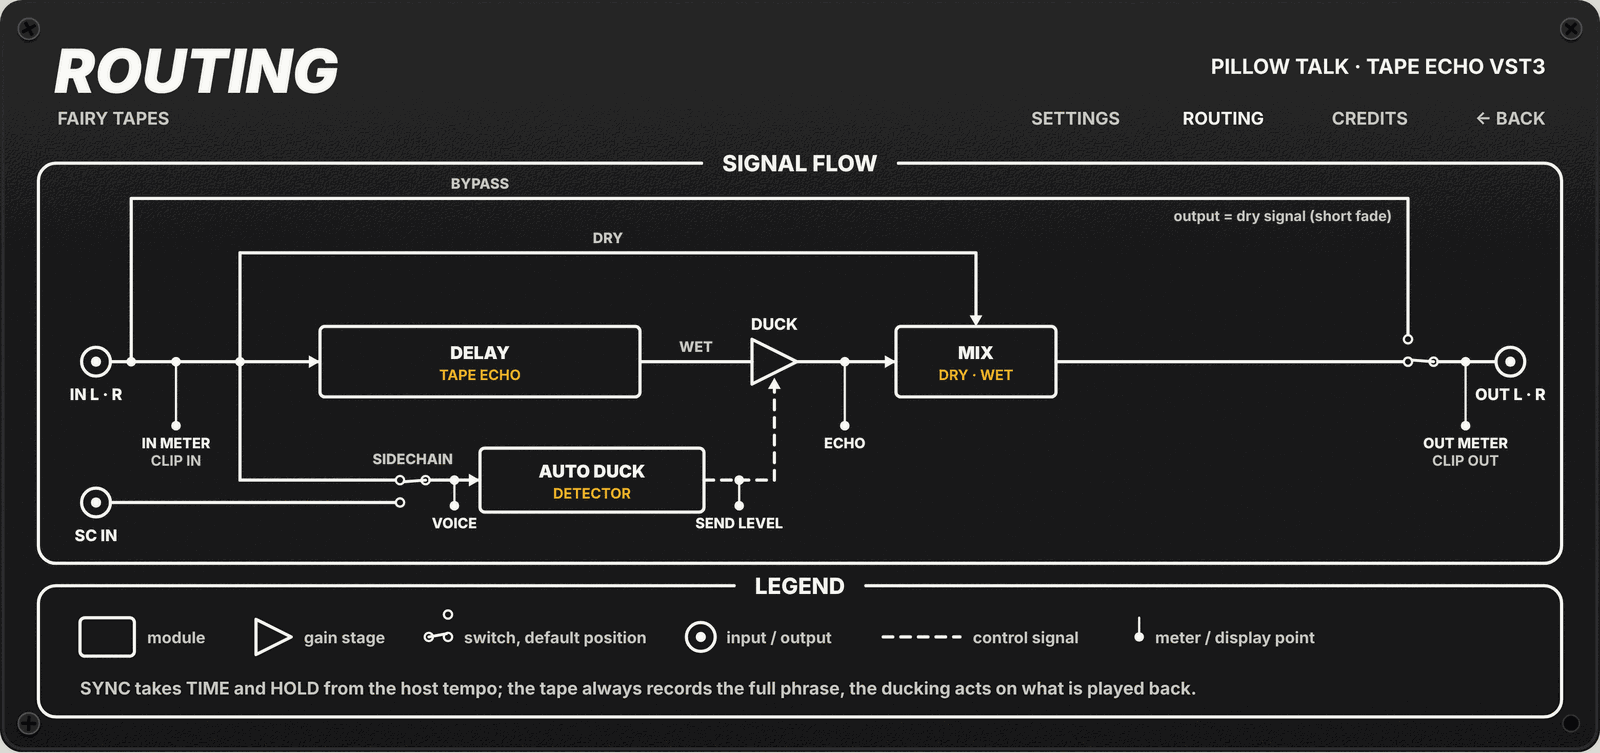
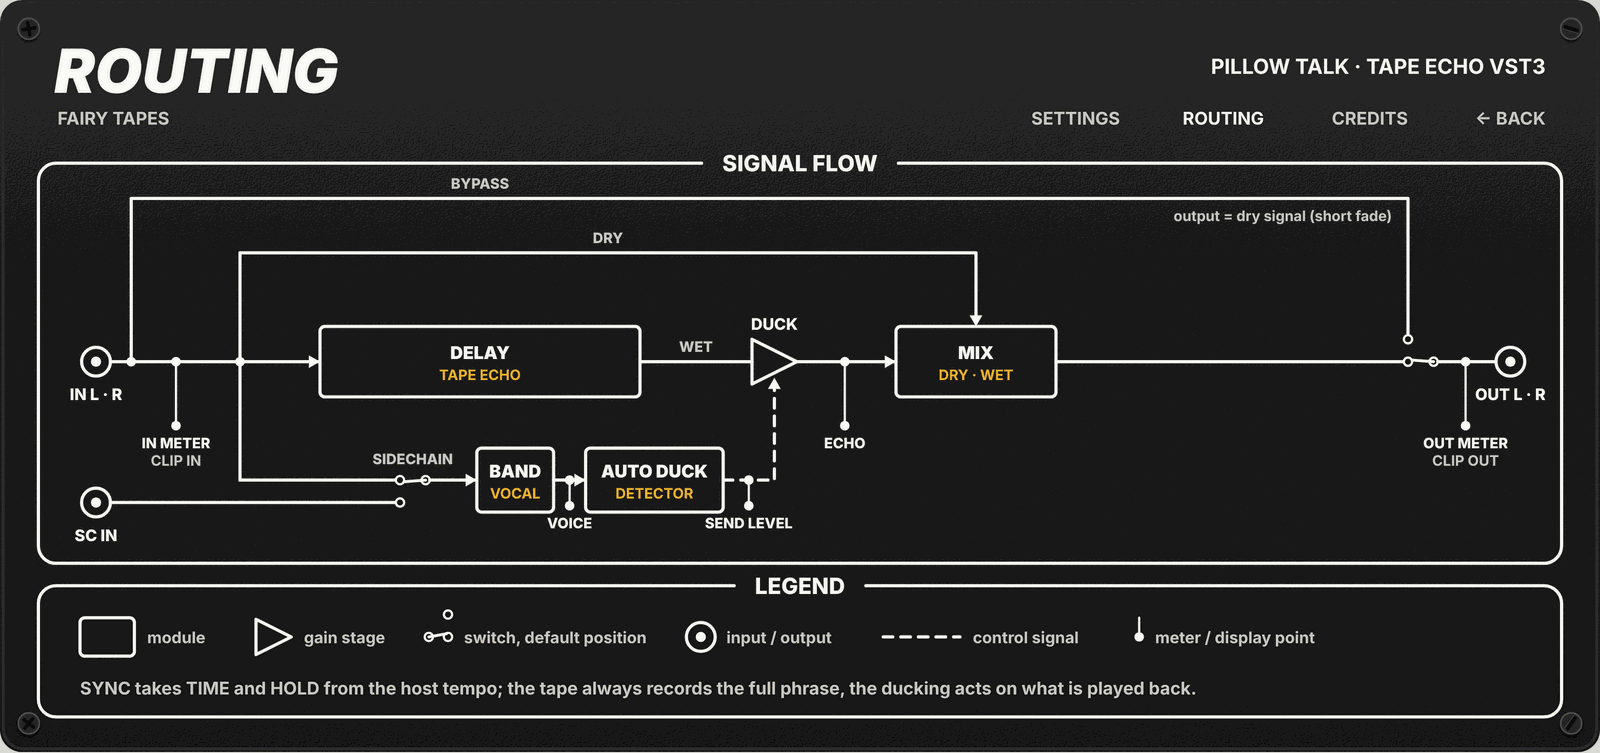
fix(pillow-talk): VOICE display point after the detector's band-pass in ROUTING
Claude-Session: https://claude.ai/code/session_01BNqf3JT345UHWAeVCgeNwg

Changed region(s): [[0.25, 0.5803, 0.5, 0.7025], [0.9688, 0.9469, 1.0, 0.9774]]

diff --git a/src/pillow-talk/docs/mockups/pillow_rack.html b/src/pillow-talk/docs/mockups/pillow_rack.html
@@ -574,9 +574,9 @@ box(24,102,952,250,'SIGNAL FLOW','top');
   /* detector: the input or the sidechain (SIDECHAIN switch, default off), then the gain sent to DUCK */
   L('M150 '+YC+' H247.4');RT.jack(60,YC+14,'SC IN');L('M69 '+(YC+14)+' H247.4');
   RT.ring(250,YC);RT.ring(250,YC+14);RT.ring(266,YC);L('M266 '+YC+' L252.5 '+(YC+1),false,1.8);txt('SIDECHAIN',258,YC-10,9,DIMW,'middle',800);
-  L('M268.6 '+YC+' H300');RT.tap(284,YC,16,'VOICE');
-  RT.block(300,440,YC,40,'AUTO DUCK',['DETECTOR']);
-  L('M440 '+YC+' H484 V242',true);RT.arrowUp(484,236);RT.tap(462,YC,16,'SEND LEVEL');})();
+  L('M268.6 '+YC+' H298');RT.block(298,346,YC,40,'BAND',['VOCAL']);L('M346 '+YC+' H366');RT.tap(356,YC,16,'VOICE');
+  RT.block(366,452,YC,40,'AUTO DUCK',['DETECTOR']);
+  L('M452 '+YC+' H484 V242',true);RT.arrowUp(484,236);RT.tap(468,YC,16,'SEND LEVEL');})();
 box(24,366,952,82,'LEGEND','top');
 (function(){var y=398,L=RT.ln;
   el('rect',{x:50,y:y-12,width:34,height:24,rx:3,fill:'none',stroke:W,'stroke-width':2});txt('module',92,y+4,10,DIMW,'start',700);

diff --git a/src/pillow-talk/tests/test_back_settings.cpp b/src/pillow-talk/tests/test_back_settings.cpp
@@ -5,6 +5,7 @@
  * the content fits the shared template. Build target: pillow_talk_back_settings_tests.
  */
 #include "ui/back_settings.h"
+#include "ui/routing_diagram.h"
 
 #include <cstdio>
 #include <string>
@@ -118,6 +119,21 @@ void test_reroll_gives_a_new_look_and_keeps_the_behaviour() {
   ASSERT_TRUE(rerolledDecor(d, 1234).seed != 1234 && rerolledDecor(d, 1234).seed != 0);   // always another seed
   ASSERT_TRUE(rerolledDecor(d, 0).seed != 0 && rerolledDecor(d, 0).seed != 1234);
 }
+// The VOICE display point is the envelope after the detector's vocal band-pass (engine.cpp): in the diagram the BAND block
+// comes before the VOICE tap, and the tap before the AUTO DUCK detector.
+void test_routing_voice_point_after_the_band_pass() {
+  const auto r = pillowRouting();
+  const FairyTapes::Ui::RoutingPrim *band = nullptr, *voice = nullptr, *duck = nullptr;
+  for (const auto& p : r.flow) {
+    if (p.kind != FairyTapes::Ui::RoutingPrim::Kind::Text) continue;
+    if (p.text == "BAND") band = &p;
+    if (p.text == "VOICE") voice = &p;
+    if (p.text == "AUTO DUCK") duck = &p;
+  }
+  ASSERT_TRUE(band != nullptr && voice != nullptr && duck != nullptr);
+  ASSERT_TRUE(band->x < voice->x && voice->x < duck->x);
+}
+
 } // namespace
 
 int main() {
@@ -125,6 +141,7 @@ int main() {
   RUN_TEST(test_current_values_are_selected);
   RUN_TEST(test_applying_a_choice);
   RUN_TEST(test_reroll_gives_a_new_look_and_keeps_the_behaviour);
+  RUN_TEST(test_routing_voice_point_after_the_band_pass);
   std::printf("%d passed, %d failed\n", g_passed, g_failed);
   return g_failed ? 1 : 0;
 }

diff --git a/src/pillow-talk/src/ui/routing_diagram.h b/src/pillow-talk/src/ui/routing_diagram.h
@@ -58,12 +58,14 @@ inline FairyTapes::Ui::BackRouting pillowRouting() {
   b.ring(266, YC);
   b.ln("M266 " + s(YC) + " L252.5 " + s(YC + 1), false, 1.8);
   b.txt("SIDECHAIN", 258, YC - 10, 9, RoutingInk::Dim);
-  b.ln("M268.6 " + s(YC) + " H300");
-  b.tap(284, YC, 16, "VOICE");
-  b.block(300, 440, YC, 40, "AUTO DUCK", {"DETECTOR"});
-  b.ln("M440 " + s(YC) + " H484 V242", true);
+  b.ln("M268.6 " + s(YC) + " H298");
+  b.block(298, 346, YC, 40, "BAND", {"VOCAL"});   // the detector's band-pass on the vocal range
+  b.ln("M346 " + s(YC) + " H366");
+  b.tap(356, YC, 16, "VOICE");                   // the display's voice: the envelope after the band-pass
+  b.block(366, 452, YC, 40, "AUTO DUCK", {"DETECTOR"});
+  b.ln("M452 " + s(YC) + " H484 V242", true);
   b.arrowUp(484, 236);
-  b.tap(462, YC, 16, "SEND LEVEL");
+  b.tap(468, YC, 16, "SEND LEVEL");
 
   FairyTapes::Ui::BackRouting r;
   r.flow = b.take();

diff --git a/docs/superpowers/specs/2026-10-09-pillow-talk-gui-design.md b/docs/superpowers/specs/2026-10-09-pillow-talk-gui-design.md
@@ -99,6 +99,7 @@ Ancora aperte:
 - **Editor allineato al pannello 1000 × 470 (2026-10-23):** riquadri DELAY (24, 282, 520 × 150) e AUTO DUCK (550, 282, 426 × 150); con SYNC acceso la manopola Time (o Hold) è nascosta e al suo posto c'è la griglia 2 × 2 dei valori di nota (`RackLitChoice` comune, facce da 34 px), mentre la scritta TIME / HOLD resta stampata (`PrintKind::Label`); niente più titoli TIME SYNC / HOLD SYNC né righe; viti a y 452; sei posizioni dei nastri rifatte fuori dai controlli (posizioni pinnate nei test aggiornate: i nastri delle istanze esistenti si spostano col pannello nuovo); retro sul layout basso comune (`Back::kShort`). L'estremo basso della scala di Time è 20 (il parametro va da 20 a 1200 ms); la preview, che scriveva 60, è stata corretta il 2026-10-24.
 - **Pulsante IN per modulo:** non c'è (nessun parametro corrispondente); resta solo il Bypass globale. Da rivalutare se si aggiunge un parametro "Duck on".
 - **Scheda ROUTING sul retro (regola comune del 2026-10-23, `docs/DESIGN_SYSTEM.md`; fatta nella preview `pillow_rack.html`, editor allineato il 2026-10-23):** link SETTINGS, ROUTING, CREDITS; riquadro SIGNAL FLOW (schema fisso nell'ordine del motore) e LEGEND. Catena disegnata: presa IN → punto IN METER / CLIP IN → divisione in tre: percorso DRY in alto verso MIX; DELAY (tape echo, il nastro registra sempre tutta la frase) → stadio DUCK → punto ECHO → MIX (dry/wet); rilevatore AUTO DUCK in basso alimentato dall'ingresso o dalla presa SC IN tramite il deviatore SIDECHAIN (spento di default), punti VOICE e SEND LEVEL, linea di controllo tratteggiata verso DUCK. BYPASS come deviatore da presa a presa (l'uscita sfuma sul segnale dry), poi OUT METER / CLIP OUT e presa OUT. Nessun pulsante IN per modulo; SYNC (tempo dell'host per TIME e HOLD) è citato nella nota della legenda, non disegnato.
+- **Punto VOICE nella scheda ROUTING (2026-11-02):** il display mostra l'inviluppo dopo il passa-banda del rilevatore, quindi lo schema ha ora un blocco BAND (VOCAL) prima del punto VOICE e del blocco AUTO DUCK (preview ed editor; test in `test_back_settings.cpp`).
 - **Coordinamento con The Stripper:** The Stripper implementa nello stesso periodo un editor con lo stesso linguaggio. Per non duplicare il lavoro, i controlli e i materiali comuni stanno in `shared/ui`; ciò che The Stripper pubblica lì (aspetto in alluminio, pannello, usura) si riusa, e ciò che serve a entrambi si aggiunge lì e non nel plugin.
 - **Usura, misurato (Task 2, Release, singolo thread; renderer superato il 2026-10-14):** `renderWear` impiegava circa 8 ms (Light) e 17 ms (Heavy) a 1000 × 628, circa 28 ms (Light) e 57 ms (Heavy) a 2000 × 1256: ben sotto la stima di 50-200 ms. `renderTapes` (corpi dei nastri) è trascurabile. Qualità giudicata vicina alla preview (graffi, macchie tenui, residui a pennello secco, puntini); ripiego con maschere PNG non necessario. Il codice stava in `src/ui/wear.{h,cpp}`; è stato tolto a favore dell'usura vettoriale comune (voce seguente).
 - **Kit comune in `shared/ui` (2026-10-14):** usura (`fairy_ui/wear.h`: generatore con seme, `enum class WearLevel { Off, Light, Heavy }`, dimensione del pannello come parametro, segni identici a quelli dello Stripper per lo stesso seme), vista dell'usura (`WearView`), serigrafia guidata dai dati (`fairy_ui/silkscreen.h` puro e testato, `SilkscreenView`: il plugin passa l'elenco degli elementi stampati e le sigle dei blocchi), controlli rack (`RackKnob`, `RackToggle`, `RackChoice`, `rack_geometry.h`) e `draw_util` (colori, `drawTitledBox`). Pillow Talk tiene solo la posizione di nastri e viti (`src/ui/decor.{h,cpp}`, `layoutFromSeed`); il corpo di carta dei nastri si disegna con il testo (Task 6). La chat dello Stripper migrerà alle versioni comuni (`docs/superpowers/notes/stripper-migration-to-shared-ui.md`).
